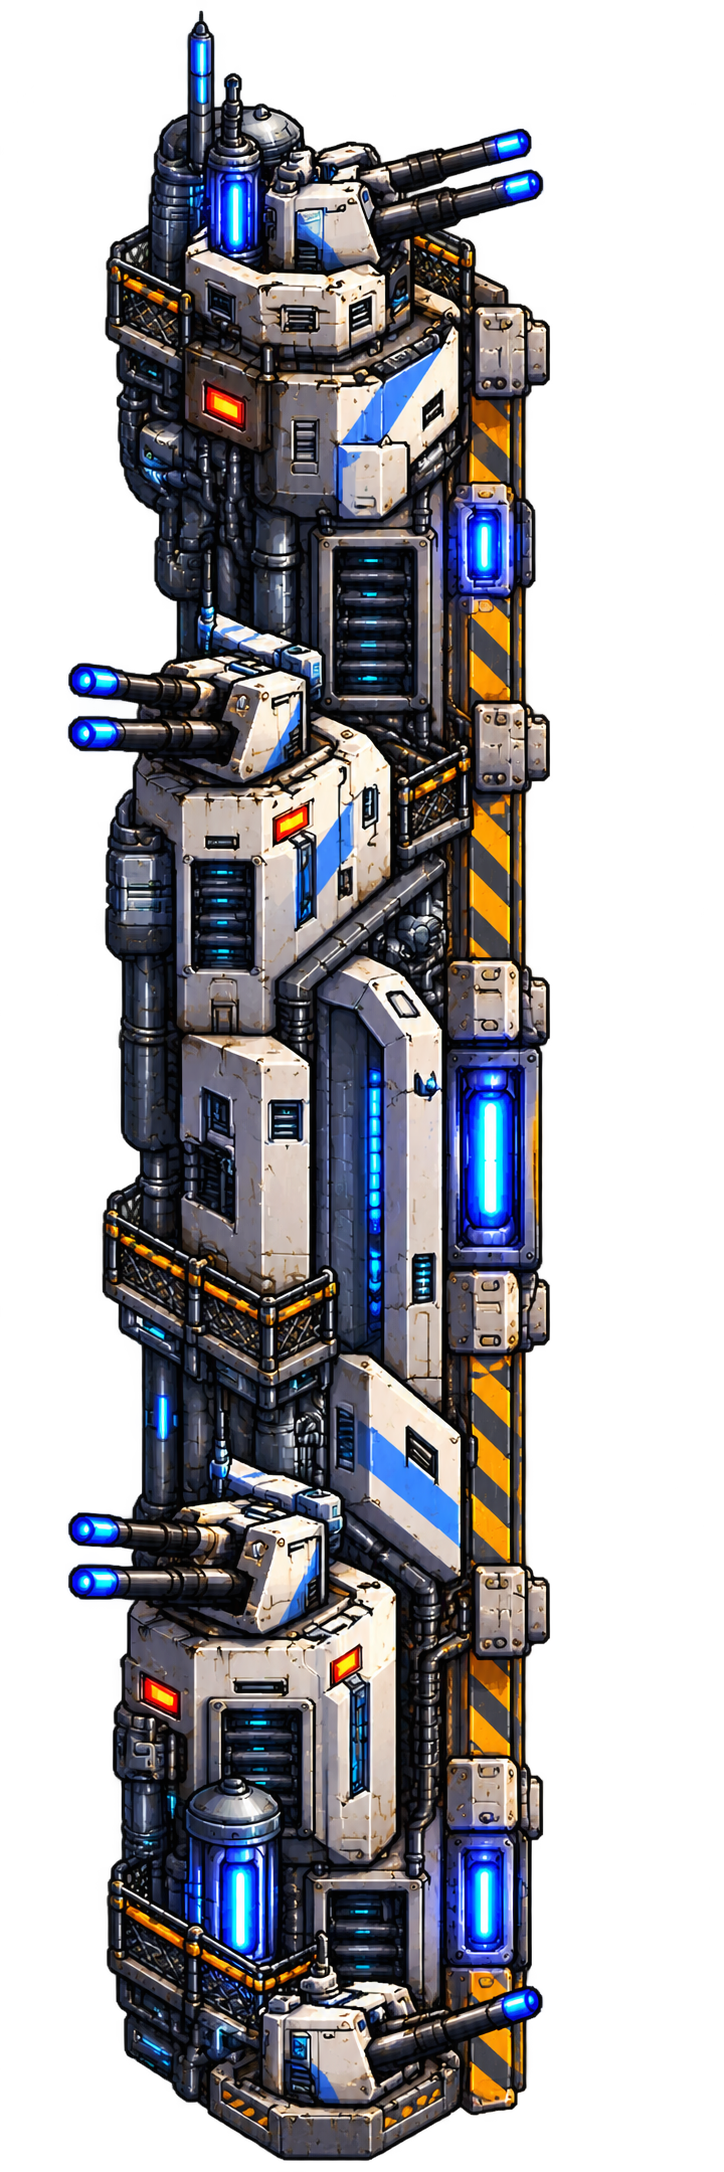
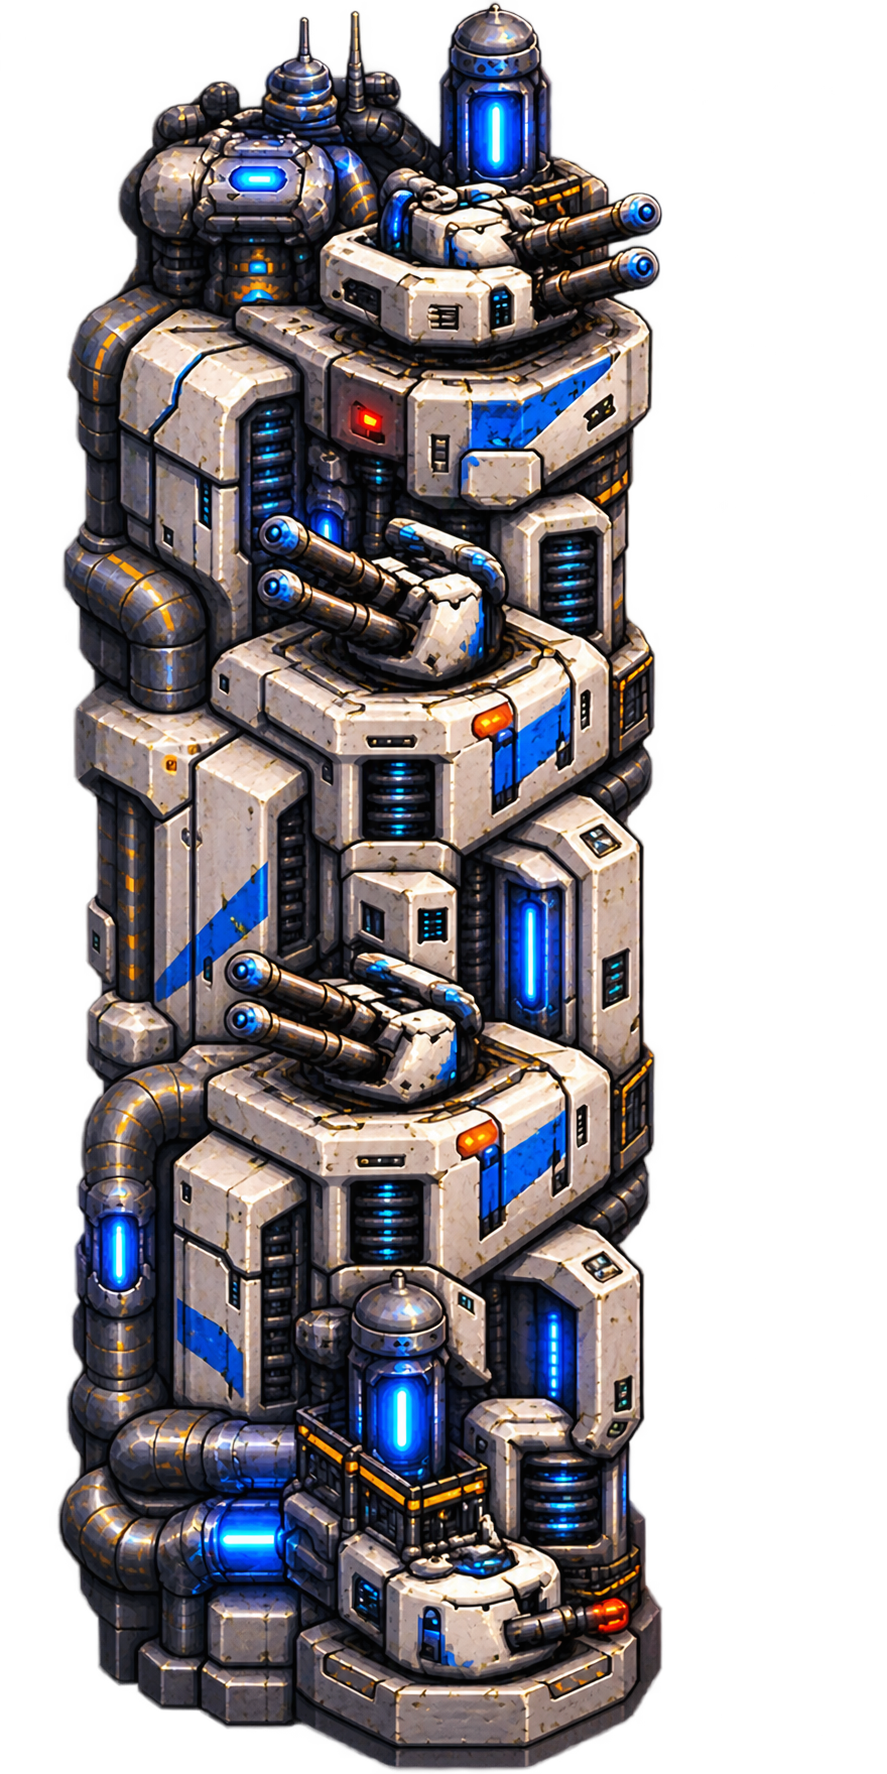
battlefield adjustment
added a new battlefield image , added one more column, adjusted stronghold placement

diff --git a/src/helpers/BattlefieldView.ts b/src/helpers/BattlefieldView.ts
@@ -2,9 +2,8 @@
 import Phaser from "phaser";
 
 import {
+    GAME_WIDTH,
     GAME_HEIGHT,
-    SIDEBAR_WIDTH,
-    BATTLEFIELD_WIDTH,
     GRID_ROWS,
     GRID_COLS,
     GRID_X,
@@ -13,29 +12,22 @@ import {
     CELL_HEIGHT
 } from "../constants.ts";
 
+
 export class BattlefieldView {
     constructor(private scene: Phaser.Scene) {}
 
-    createBackground(): void {
-        const background = this.scene.add.image(
-            SIDEBAR_WIDTH + BATTLEFIELD_WIDTH / 2,
-            GAME_HEIGHT / 2,
-            "battlefield"
-        );
+    
+createBackground(): void {
+    const background = this.scene.add.image(
+        GAME_WIDTH / 2,
+        GAME_HEIGHT / 2,
+        "battlefield"
+    );
 
-        background.setDisplaySize(BATTLEFIELD_WIDTH, GAME_HEIGHT);
-        background.setDepth(-10);
+    background.setDisplaySize(GAME_WIDTH, GAME_HEIGHT);
+    background.setDepth(-10);
+}
 
-        // Decorative fortress extension fills the former left sidebar.
-        // Keep it behind the stronghold and HUD; do not move the gameplay grid.
-        const fortress = this.scene.add.image(
-            SIDEBAR_WIDTH / 2,
-            GAME_HEIGHT / 2,
-            "fortressExtension"
-        );
-        fortress.setDisplaySize(SIDEBAR_WIDTH, GAME_HEIGHT);
-        fortress.setDepth(-9);
-    }
 
     drawGrid(): void {
         const graphics = this.scene.add.graphics();

diff --git a/src/objects/Stronghold.ts b/src/objects/Stronghold.ts
@@ -29,10 +29,17 @@ export class Stronghold extends Phaser.GameObjects.Sprite {
         // Stronghold health remains unchanged
         this.health = SETTINGS.stronghold.startingHealth;
         this.maxHealth = this.health;
+ 
+       
+        const newHeight = GRID_ROWS * CELL_HEIGHT + 40;
+        const newWidth = 320;
 
-        // The wall covers all five lanes
-        this.setDisplaySize(150, GRID_ROWS * CELL_HEIGHT + 40);
+        this.setDisplaySize(newWidth, newHeight);
+        this.x -= (newWidth - 150) / 2;
+        this.x += 20;
         this.setDepth(2);
+
+
 
         // Health label
         this.healthLabel = scene.add.text(

diff --git a/src/helpers/GameAssets.ts b/src/helpers/GameAssets.ts
@@ -30,7 +30,6 @@ export function loadGameAssets(scene: Phaser.Scene): void {
     // Stronghold and battlefield
     scene.load.image("stronghold", "assets/stronghold/stronghold_wall.png");
     scene.load.image("battlefield", "assets/backgrounds/battlefield.png");
-    scene.load.image("fortressExtension", "assets/backgrounds/fortress_extension.png");
 
     // Audio
     scene.load.audio("backgroundMusic", "assets/sounds/backgroundMusic.m4a");

diff --git a/src/constants.ts b/src/constants.ts
@@ -12,11 +12,12 @@ export const BATTLEFIELD_WIDTH = 1200;
 export const GRID_ROWS = 5;
 export const GRID_COLS = 9;
 
-export const CELL_WIDTH = 113;
-export const CELL_HEIGHT = 122;
+export const CELL_WIDTH = 120;
+export const CELL_HEIGHT = 120;
 
-export const GRID_X = 295;
+export const GRID_X = 210;
 export const GRID_Y = 135;
+
 
 
 // Defender costs
